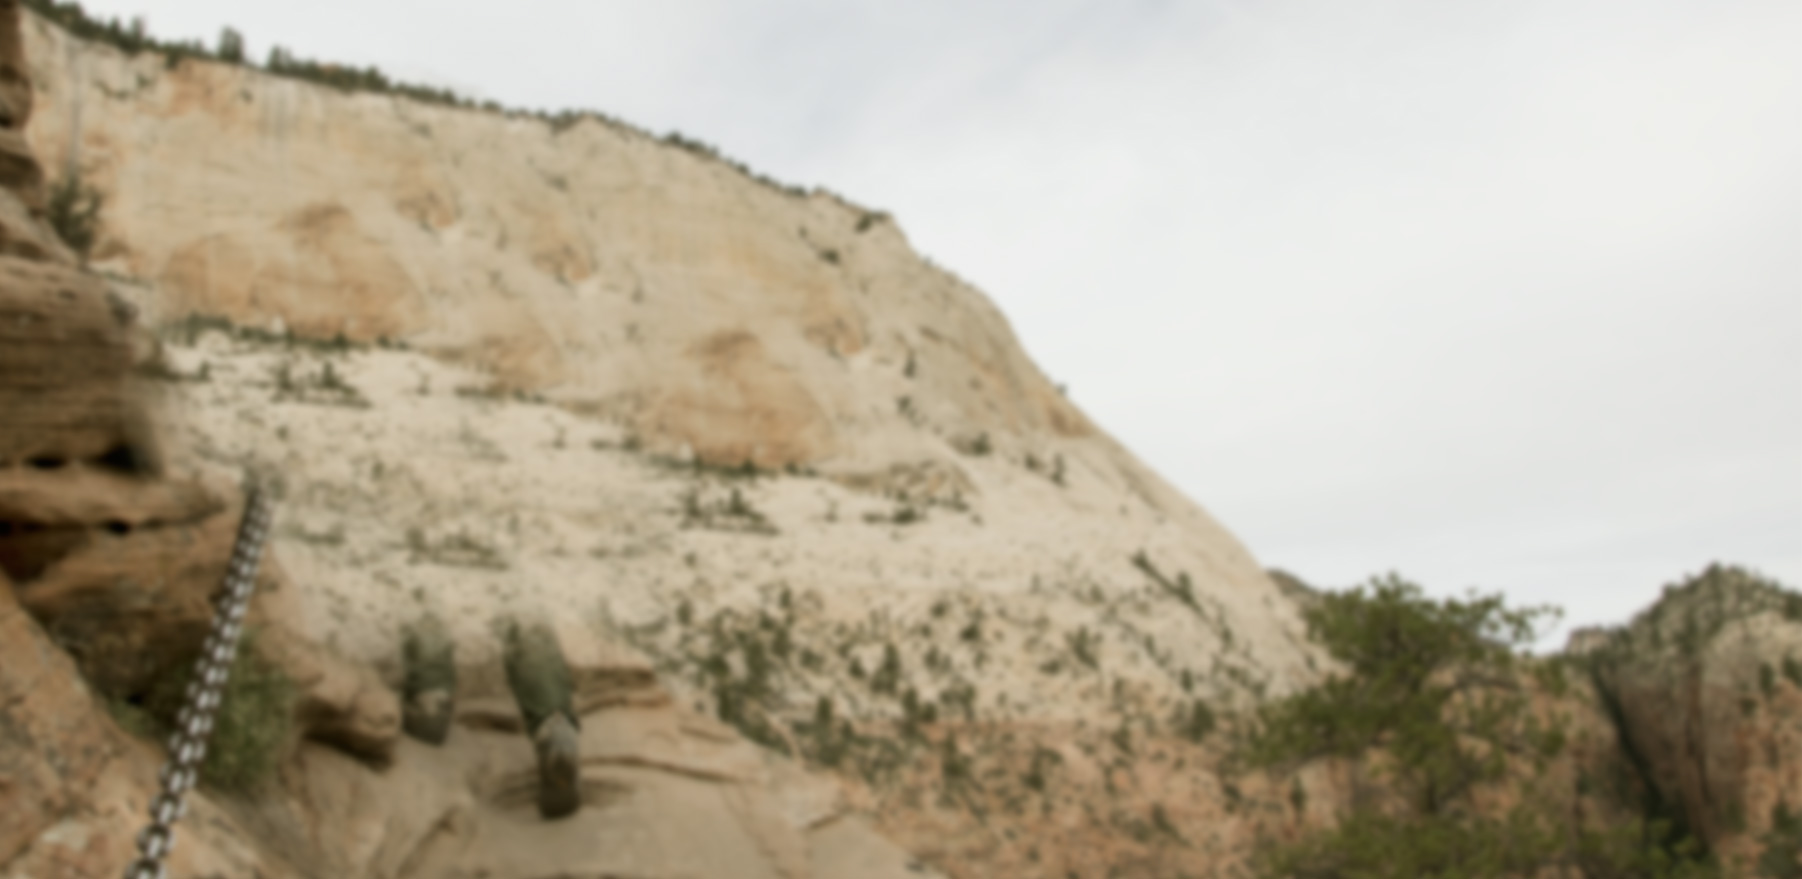
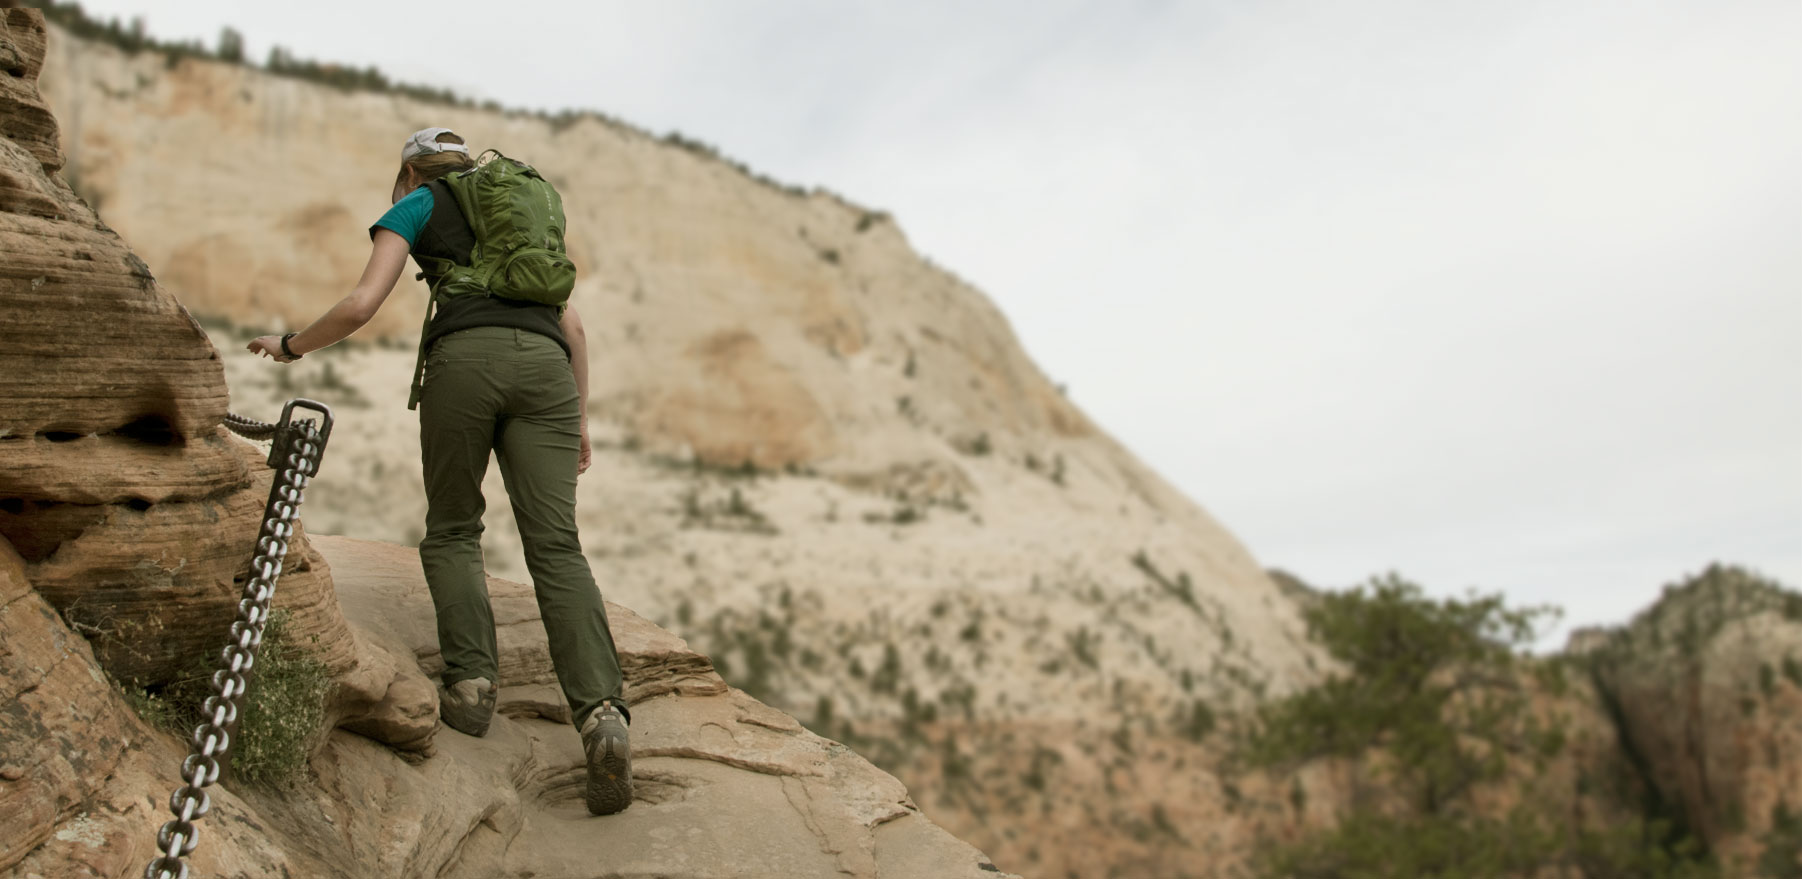
Preparing for mobile

Changed region(s): [[0.0, 0.0, 0.5594, 1.0], [0.3418, 0.9829, 0.3729, 1.0]]

diff --git a/app/views/main.html b/app/views/main.html
@@ -3,7 +3,6 @@
     <div class="cd-background-wrapper">
       <figure class="cd-floating-background">
         <img src="/images/homepage-hero-back.jpg">
-        <img src="/images/homepage-hero-middle.png">
         <img class="port-view-homepage-hero-text" src="/images/homepage-hero-front.svg">
         <!-- images here -->
       </figure>
@@ -12,13 +11,14 @@
   
   <section class="port-main-content">
     <div class="port-view-homepage-projects">
-      <h2>Projects</h2>
+      <h2 class="port-view-homepage-moible-intro">Hey there, my name is Ashlyn Aiu and I'm a Product Designer.</h2>
+      <h2 class="port-view-homepage-desktop-intro">Projects</h2>
       <div class="port-main-content--columns">
         <div class="port-main-column--small">
           <img src="/images/port-home-icracked.png" alt="" />
         </div>
         <div class="port-main-column--large">
-          <h3>iCracked Member Dashboard</h3>
+          <h3><a href="#/portal">iCracked Member Dashboard</a></h3>
           <p>AngularJS web application project requiring user experience design &amp; front-end development.</p>
           <a href="#/portal">Check it out</a>
         </div>
@@ -28,7 +28,7 @@
           <img src="/images/port-home-homeslice.png" alt="" />
         </div>
         <div class="port-main-column--large">
-          <h3>Homeslice iOS and Android App</h3>
+          <h3><a href="#/homeslice">Homeslice iOS and Android App</a></h3>
           <p>Cross platform user experience and visual design implementation</p>
           <a href="#/homeslice">Check it out</a>
         </div>
@@ -38,7 +38,7 @@
           <img src="/images/port-home-prelimb.png" alt="" />
         </div>
         <div class="port-main-column--large">
-          <h3>Prelimb iOS App</h3>
+          <h3><a href="#/prelimb">Prelimb iOS App</a></h3>
           <p>Augmented reality gardening application for the iPad requiring user experience design.</p>
           <a href="#/prelimb">Check it out</a>
         </div>
@@ -46,4 +46,3 @@
     </div>
   </section>
 </div>
-<script src="/scripts/misc/parallax.js"></script>

diff --git a/app/styles/_classes.sass b/app/styles/_classes.sass
@@ -2,33 +2,31 @@
 ///////Layout Styles/////
 ////////////////////////
 %port-main-column
-  +media(above-small-screens)
+  +media(except-handhelds)
     width: 48%
 
 %port-main-column--small
-  +media(above-small-screens)
+  +media(except-handhelds)
     width: 28%
 
 %port-main-column--thirds
-  +media(above-small-screens)
+  +media(except-handhelds)
     width: 31%
 
 %port-main-column--large
-  +media(above-small-screens)
+  +media(except-handhelds)
     width: 68%
 
 .port-main-content
   padding: 30px 20px 
   max-width: 620px
   margin: 0 auto
-  img
-    margin-bott
-  +media(above-small-screens)
+  +media(except-handhelds)
     padding: 20px
 
 .port-main-content--columns
   @extend .port-main-content
-  +media(above-small-screens)
+  +media(except-handhelds)
     +display-flex
     justify-content: space-between
 
@@ -84,6 +82,10 @@ p
     @extend %port-main-img
     border-bottom: 1px solid #ececec
 
+.port-main-hide-image-moible
+  +media(handhelds)
+    display: none
+
 ///////////////////
 ///////Header/////
 /////////////////
@@ -133,12 +135,6 @@ header
 +create-media(port-main-social)
   no-op: 1 //needed since this won't be created if this is an empty field
 
-//Using a sass list and then iterating through it to create the media elements
-$social-icon: 'twitter', 'tumblr', 'linkedin'
-
-@each $social-icon in $social-icon 
-  .port-footer-#{$social-icon}
-    +get-media(port-main-social, '.svg-port-social-#{$social-icon }')
 footer
   max-width: 920px
   margin: 0 auto
@@ -154,8 +150,7 @@ footer
     li
       display: inline
       padding: 0 10px
-      a
-        text-indent: -9999px
+      a, i
         display: block
 
 // bower:scss

diff --git a/app/index.html b/app/index.html
@@ -4,7 +4,7 @@
   <meta charset="utf-8">
   <title></title>
   <meta name="description" content="">
-  <meta name="viewport" content="width=device-width">
+  <meta name="viewport" content="width=device-width, initial-scale=1">
   <!-- Place favicon.ico and apple-touch-icon.png in the root directory -->
   <!-- build:css(.) styles/vendor.css -->
   <!-- bower:css -->
@@ -29,9 +29,9 @@
 <footer>
   <div class="icr-main-footer">
     <ul>
-      <li><span class="port-footer-twitter"><a href="" target="_blank">Twitter</a></span></li>
-      <li><span class="port-footer-tumblr"><a href="" target="_blank">Tumblr</a></span></li>
-      <li><span class="port-footer-linkedin"><a href="" target="_blank">Linkedin</a></span></li>
+      <li><a href="https://twitter.com/ashlynaiu" target="_blank"><i class="svg-port-social-twitter"></i></a></li>
+      <li><a href="http://singanything.tumblr.com/" target="_blank"><i class="svg-port-social-tumblr"></i></a></li>
+      <li><a href="https://www.linkedin.com/pub/ashlyn-aiu/42/56b/60a" target="_blank"><i class="svg-port-social-linkedin"></i></a></li>
     </ul>
   </div>
 </footer>
@@ -48,7 +48,6 @@ ga('send', 'pageview');
 
 <!-- build:js(.) scripts/vendor.js -->
 <!-- bower:js -->
-<script src="bower_components/modernizr/modernizr.js"></script>
 <script src="bower_components/jquery/dist/jquery.js"></script>
 <script src="bower_components/angular/angular.js"></script>
 <script src="bower_components/angular-animate/angular-animate.js"></script>

diff --git a/app/styles/_homepage.sass b/app/styles/_homepage.sass
@@ -1,8 +1,19 @@
+/////Hero Image Styles
 .cd-background-wrapper 
   background-color: #001426
   position: relative
   overflow: hidden
+  @include media(handhelds)
+    display: none
 
+.port-view-homepage-moible-intro
+  @include media(except-handhelds)
+    display: none
+
+.port-view-homepage-desktop-intro
+  @include media(handhelds)
+    display: none
+    
 .no-touch .cd-background-wrapper 
   -webkit-perspective: 4000px
   -moz-perspective: 4000px
@@ -88,8 +99,8 @@
 
   .port-main-content--columns
     max-width: 600px
-    padding-bottom: 30px
-    margin-bottom: 30px
+    padding-bottom: 45px
+    margin-bottom: 45px
     border-bottom: 1px solid $secondary-text
 
   &-header
@@ -116,11 +127,18 @@
     img
       width: 130px
       height: 130px
+      @include media(handhelds)
+        display: none
     .port-main-column--large
       h3
         font-size: 25px
         margin-bottom: 8px
         font-weight: 400
+        a
+          color: $text-color
+          &::after
+            content: ''
+            display: none
       p
         margin-bottom: 20px
         font-size: 18px

diff --git a/app/views/about.html b/app/views/about.html
@@ -1,7 +1,7 @@
 <div class="port-view-about">
     <div class="port-main-content--columns">
         <div class="port-main-column--small">
-            <img src="/images/about-ashlyn.jpg" class="port-main-img"/>
+            <img src="/images/about-ashlyn.jpg" class="port-main-img port-main-hide-image-moible"/>
         </div>
         <div class="port-main-column--large">
             <p>Hey there, my name is Ashlyn and I'm a coffee and typography addict living in Redwood City, CA. During my free time, I enjoy rock climbing, cycling, and backpacking. Currently, I'm working full-time at iCracked as a Product Designer. I enjoy prototyping designs and making delightful interactions using Javascript, HTML, and CSS3/SASS. My most current projects have been mocked up in Sketch/Adobe Illustrator and then built into AngularJS web apps. While I have worn maybe hats during product launches, including A/B testing and wireframing, I find myself enjoying UI Development the most. </p>

diff --git a/test/karma.conf.js b/test/karma.conf.js
@@ -19,7 +19,6 @@ module.exports = function(config) {
     // list of files / patterns to load in the browser
     files: [
       // bower:js
-      'bower_components/modernizr/modernizr.js',
       'bower_components/jquery/dist/jquery.js',
       'bower_components/angular/angular.js',
       'bower_components/angular-animate/angular-animate.js',

diff --git a/app/scripts/misc/parallax.js b/app/scripts/misc/parallax.js
@@ -1,4 +1,5 @@
 'use strict';
+
 jQuery(document).ready(function($){
 	//check media query
 	var mediaQuery = window.getComputedStyle(document.querySelector('.cd-background-wrapper'), '::before').getPropertyValue('content').replace(/"/g, ''),

diff --git a/app/styles/_reset.sass b/app/styles/_reset.sass
@@ -34,7 +34,7 @@ h1
 
 h2
 	font-size: 35px
-	line-height: 35px
+	line-height: 45px
 	font-weight: 300
 	margin-bottom: 20px
 
